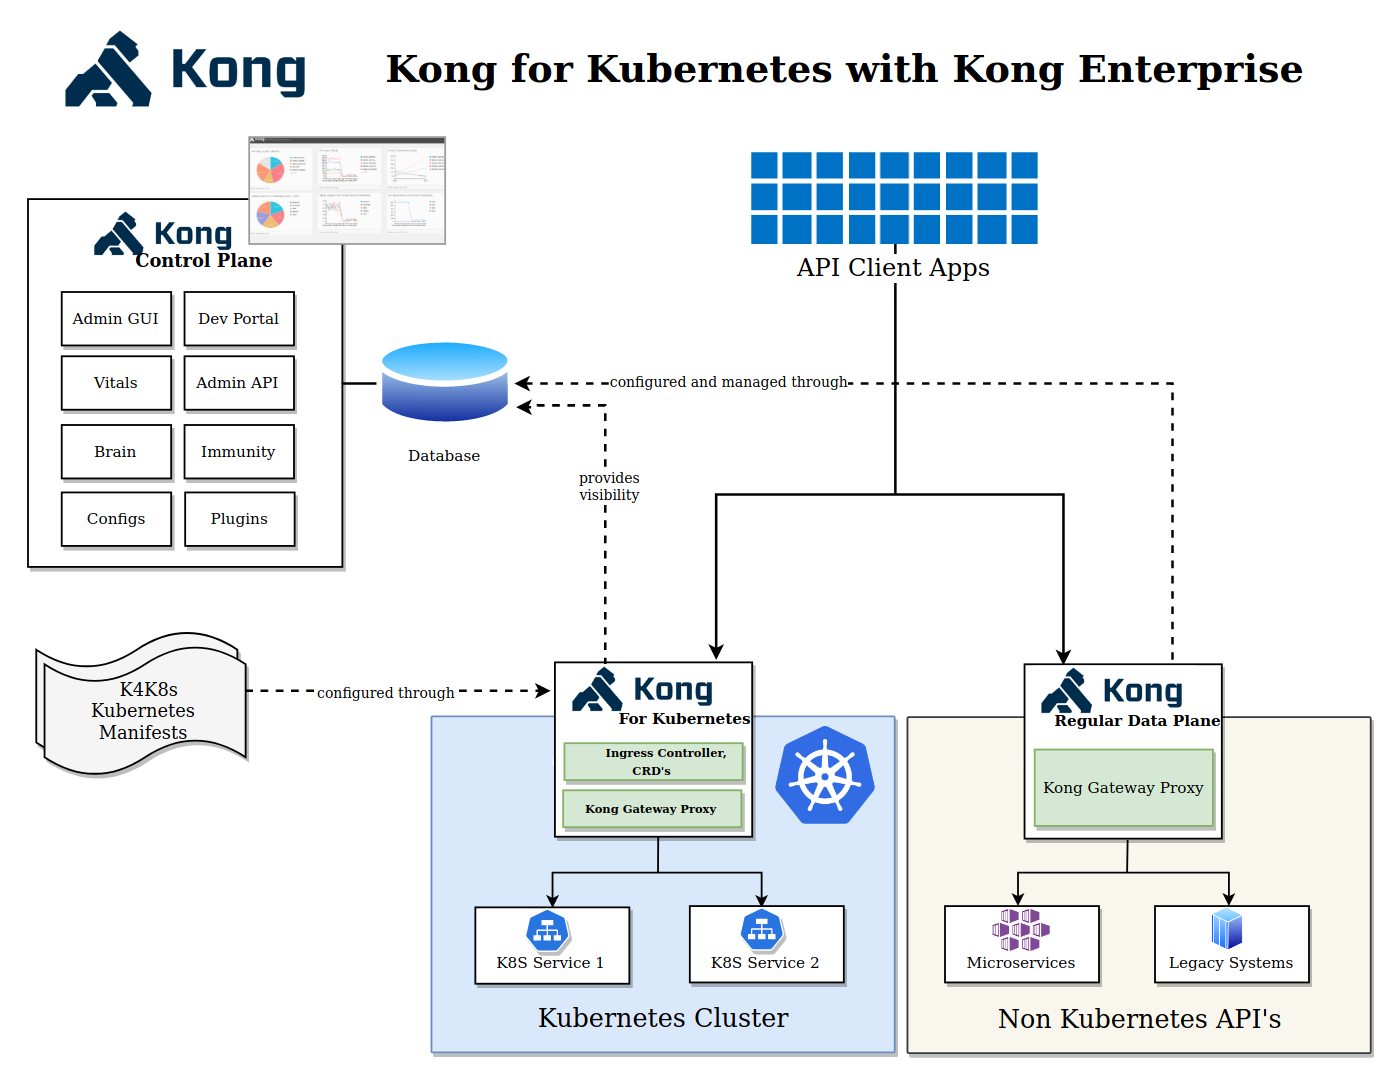
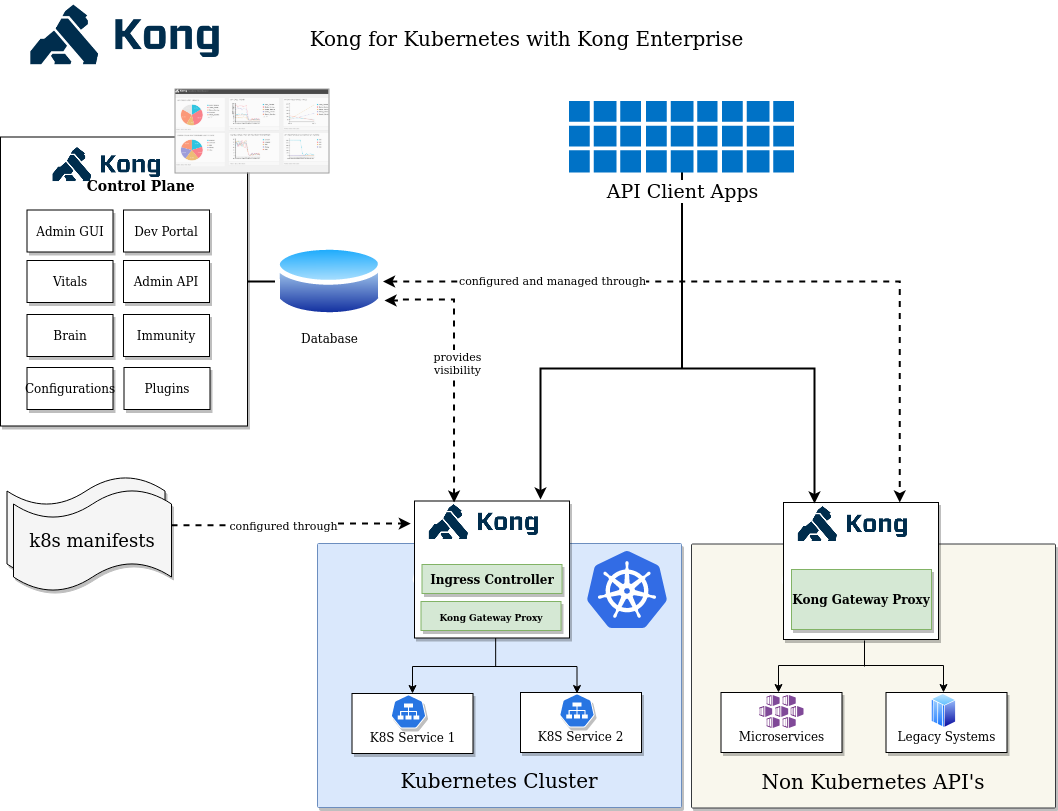
docs: clarify package/image to use with Kong Enterprise
- Clarify that the same docker image needs to be used across such hybrid
  architectures. This has caused confusion with some users.
- Update image to mention 'k8s manifests' and have arrows in both the
  directions between kong and the db; some other minor changes

Changed region(s): [[0.0, 0.0, 1.0, 1.0], [0.0, 0.5857, 0.1871, 0.7398], [0.4055, 0.4316, 0.4679, 0.4932]]

diff --git a/docs/concepts/k4k8s-with-kong-enterprise.md b/docs/concepts/k4k8s-with-kong-enterprise.md
@@ -1,10 +1,10 @@
 # Kong for Kubernetes with Kong Enterprise
 
-Kong for Kubernetes is Kubernetes Ingress Controller built on top
+Kong for Kubernetes is a Kubernetes Ingress Controller built on top
 of Open-Source Kong Gateway.
 
 If you are an Enterprise customer, you have an option of running the
-[Enterprise version](https://docs.konghq.com/enterprise/1.3-x/kong-for-kubernetes/)
+[Enterprise version](https://docs.konghq.com/enterprise/latest/kong-for-kubernetes/)
 of the Ingress Controller, which includes
 all the Enterprise plugins but does not include Kong Manager or any
 other Enterprise features. This makes it possible to
@@ -18,11 +18,9 @@ Kubernetes with Kong Enterprise.
 As seen in the diagram below, this deployment consists of
 Kong for Kubernetes deployed in Kubernetes, and is hooked up with
 a database. If there are services running outside Kubernetes,
-a regular Kong Gateway proxy can be deployed there and connected to the same
-database. This provides a single pane of visibility of
+a regular Kong Gateway proxy can be deployed there and connected to the
+same database. This provides a single pane of visibility of
 all services that are running in your infrastructure.
-
-
 
 ![architecture-overview](../images/k4k8s-with-kong-enterprise.png "K4K8S with Kong Enterprise")
 
@@ -30,10 +28,14 @@ In this deployment model, the database for Kong can be hosted anywhere.
 It can be a managed DBaaS service like Amazon RDS, Google Cloud
 SQL or a Postgres instance managed in-house or even an instance
 deployed on Kubernetes.
-If you are following this model, it is recommended that for
-production scenarios, you do not deploy Postgres on Kubernetes,
-due to the fact that running state-ful applications on Kubernetes
-is challenging to get right.
+If you are following this model, please keep in mind the following:
+- It is recommended to not deploy Postgres on Kubernetes,
+  due to the fact that running stateful applications on Kubernetes
+  is challenging to get right.
+- Ensure that you have the same image/package of Kong Enterprise
+  running across the fleet. This means that all Kong instances that are
+  connected to the same database must use the
+  same version of kong enteprise package.
 
 [This guide](../deployment/kong-enterprise.md)
 walks through the setup of the above architecture.
